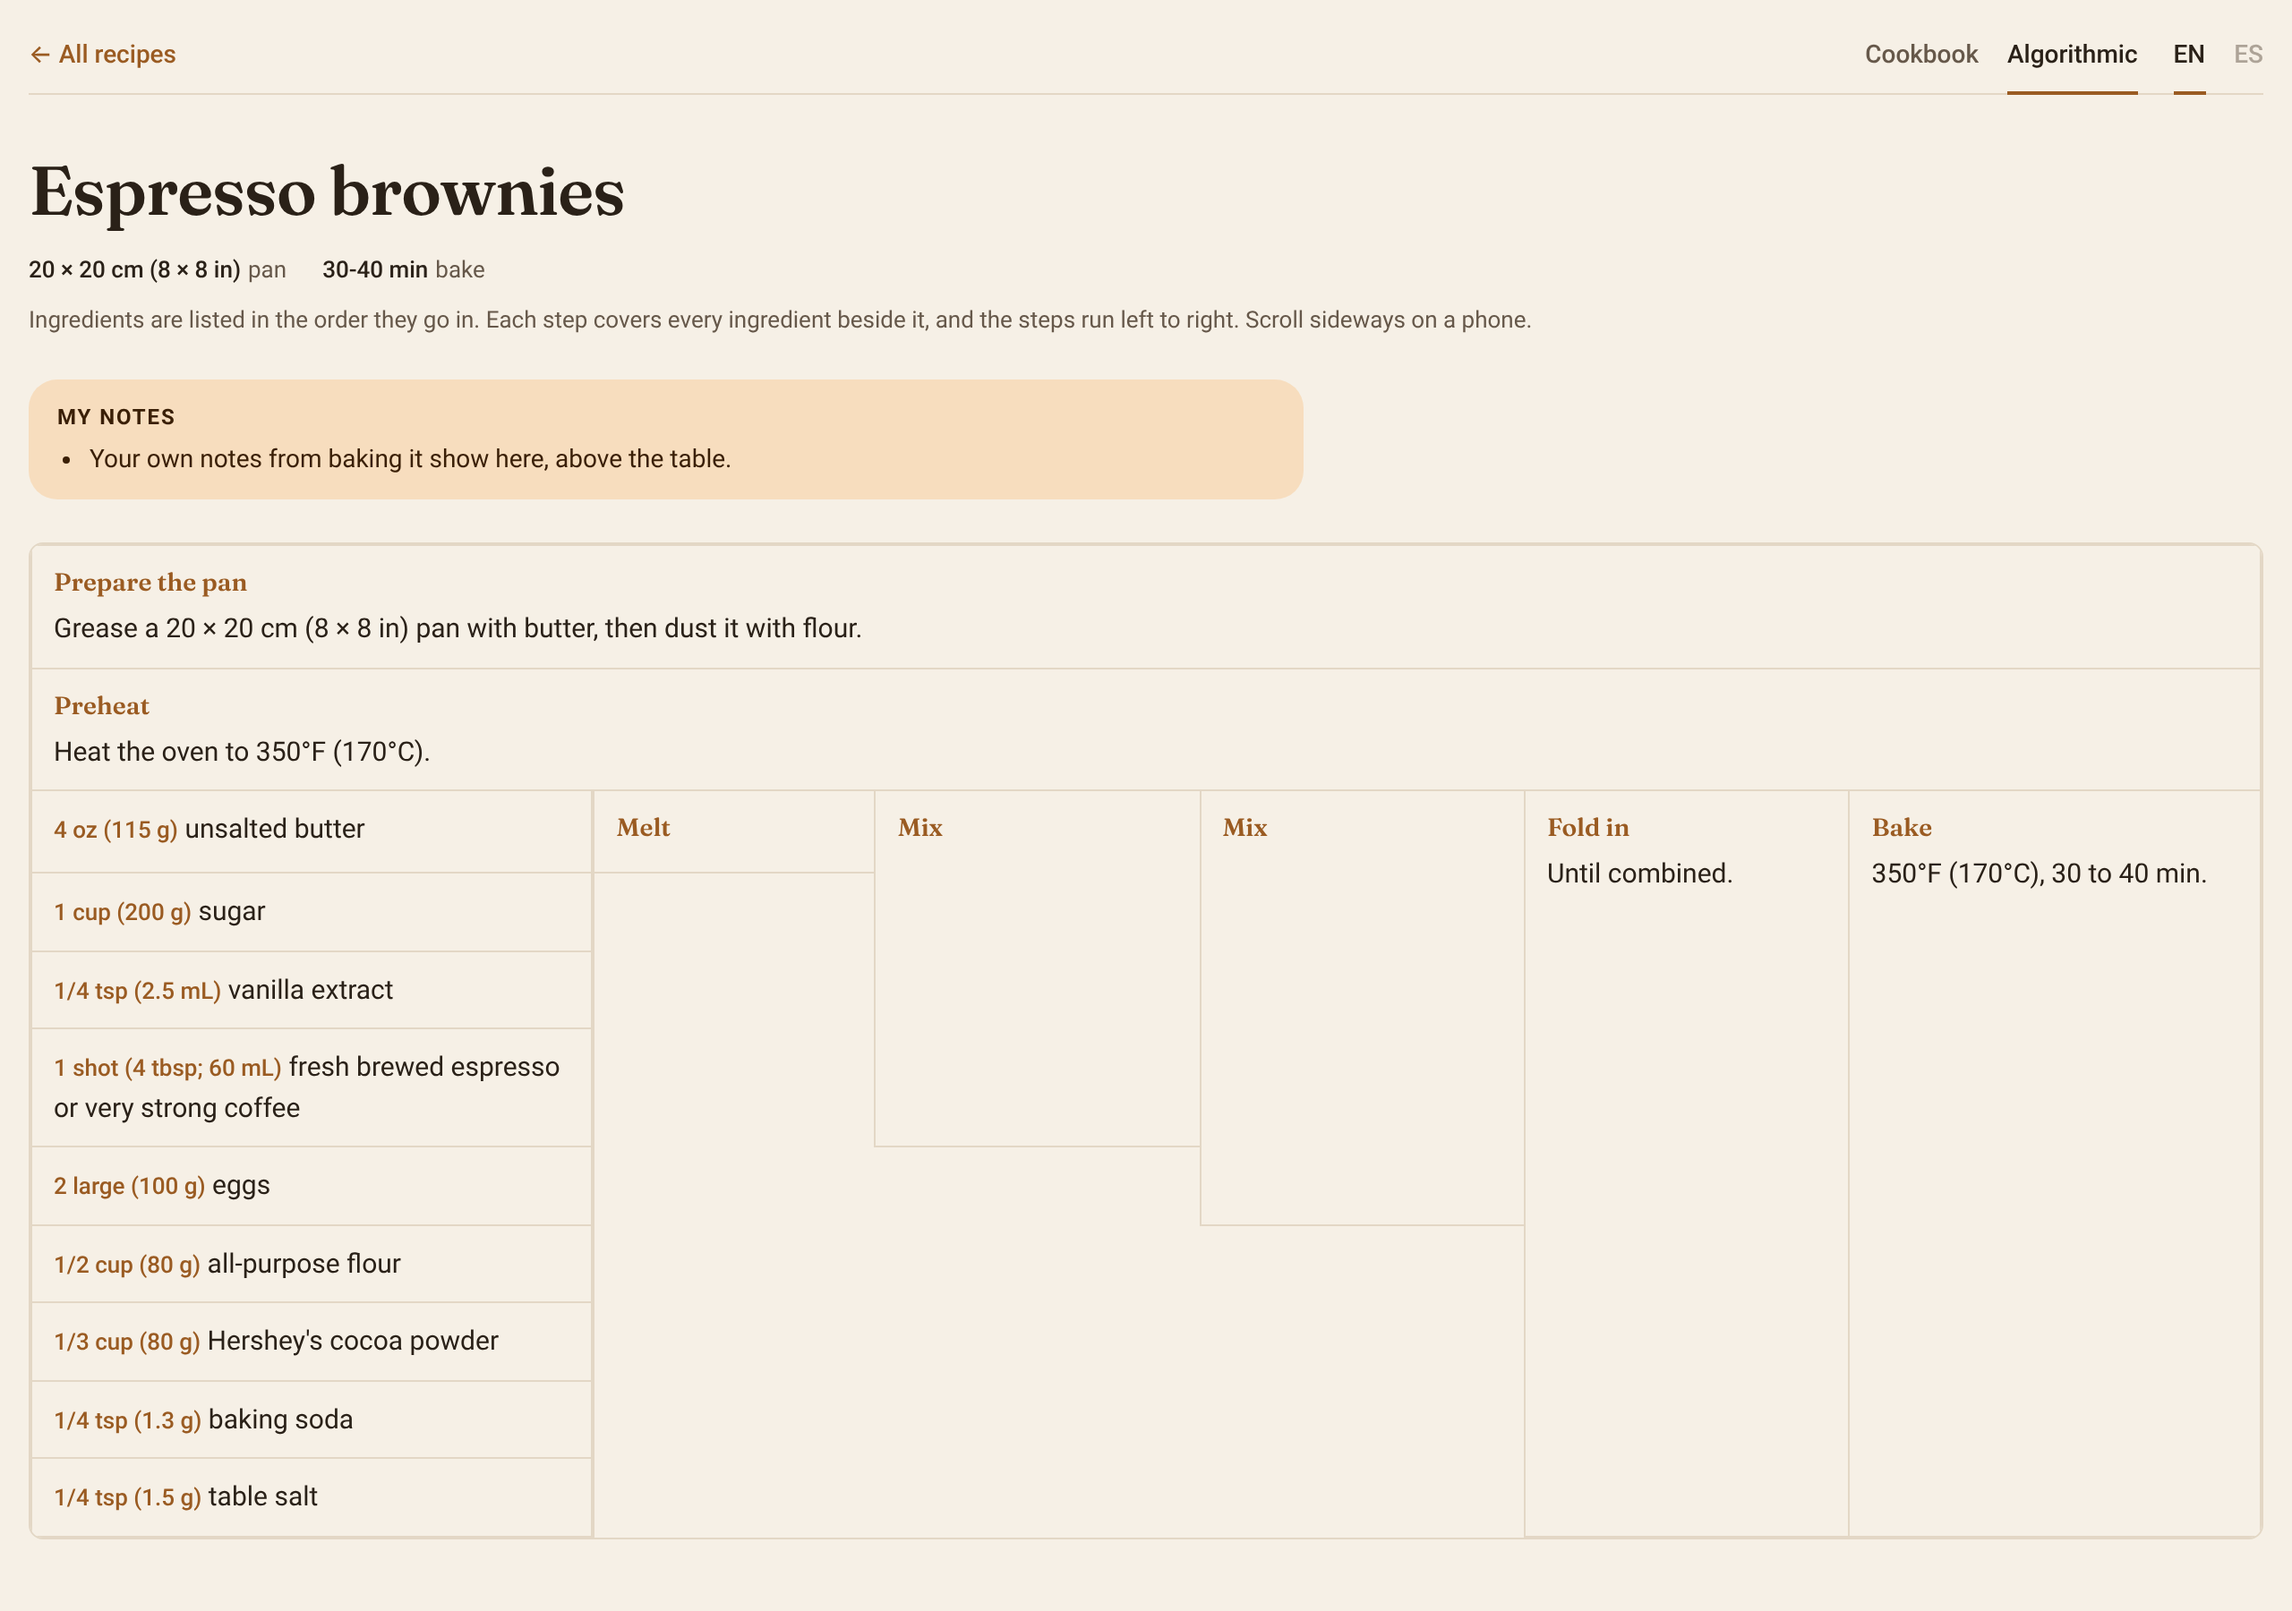
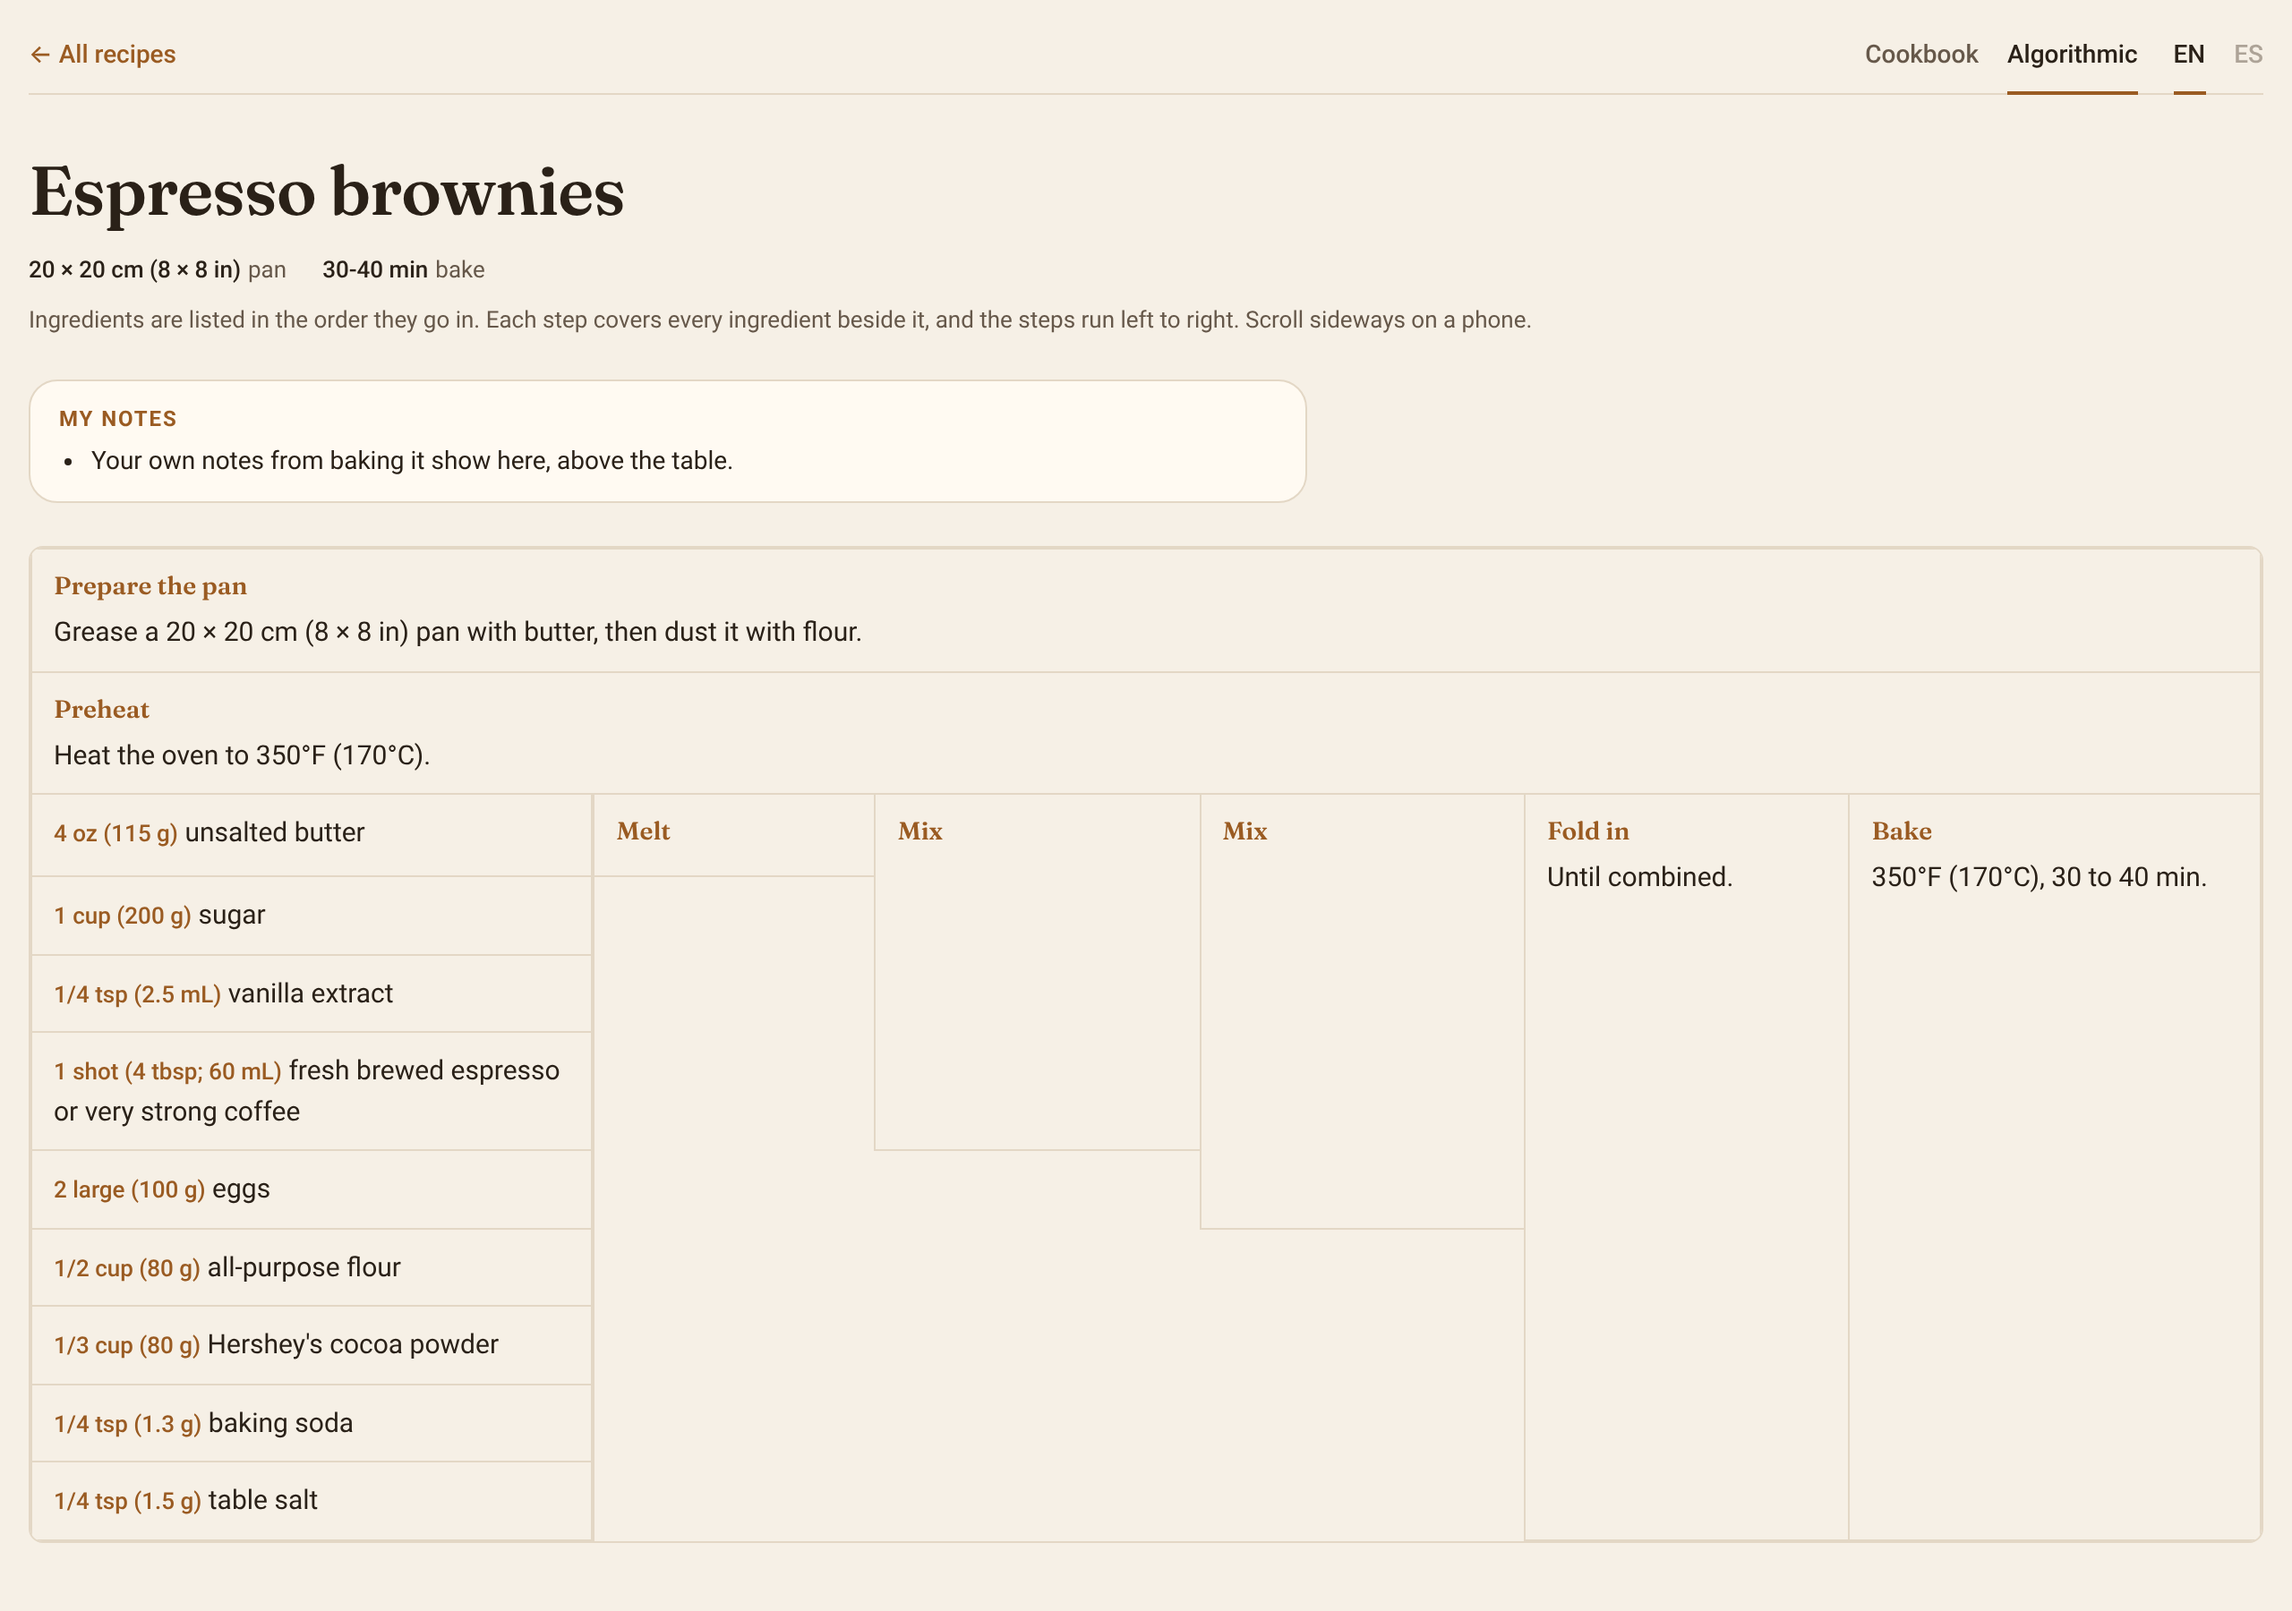
Paper: a smaller palette, oat with one cream on it (0.8.2)
Drop --card-2 and --accent-soft/--on-accent-soft. Everything that sits on
the page (photo placeholders, My notes, search tags, the skills box) takes
the one cream (--card); a chip that's on is filled in the accent; boxes
are edged with the hairline. Eight colours per theme instead of eleven.

Claude-Session: https://claude.ai/code/session_01CNA9gCBeYptk53y1t7E6Wj

diff --git a/site-template/assets/site.css b/site-template/assets/site.css
@@ -3,7 +3,7 @@
 /* Algorithmic pages keep the algorithmic-recipe skill's own CSS (its grid widths are worked out per recipe)
    and take Paper's colours and fonts through its variable names. :root:root:root outranks the skill's
    dark-mode and print blocks, and each name points at a token that already changes with the theme. */
-:root:root:root{--bg:var(--paper);--tint:var(--card-2);--accent-bg:var(--accent-soft);
+:root:root:root{--bg:var(--paper);--tint:var(--card);--accent-bg:var(--card);
   --display:var(--font-display);--body:var(--font-body);--mono:var(--font-body)}
 .layout-algorithmic{--bar-width:1480px}
 .layout-algorithmic .wrap{border-radius:var(--radius-s)}
@@ -25,14 +25,14 @@
 
 /* Pagefind search box, in Paper's colours */
 #search{--pagefind-ui-scale:.85;--pagefind-ui-primary:var(--accent);--pagefind-ui-text:var(--ink);--pagefind-ui-background:var(--card);
-  --pagefind-ui-border:var(--outline);--pagefind-ui-border-width:1px;--pagefind-ui-tag:var(--card-2);--pagefind-ui-font:var(--font-body);--pagefind-ui-border-radius:12px}
+  --pagefind-ui-border:var(--outline);--pagefind-ui-border-width:1px;--pagefind-ui-tag:var(--card);--pagefind-ui-font:var(--font-body);--pagefind-ui-border-radius:12px}
 #search .pagefind-ui__search-input::placeholder{color:var(--muted);opacity:1}
 #search .pagefind-ui__result-title{font-family:var(--font-display);font-weight:500}
 
 /* homepage link to the rules page */
 .index .rules-link{margin:calc(-1 * var(--space-3)) 0 var(--space-5);font-size:var(--text-l)}
 
-.index .skills-note{margin:var(--space-6) 0 var(--space-4);padding:var(--space-4);background:var(--card);border:1px solid var(--outline);border-radius:var(--radius-m);max-width:var(--measure)}
+.index .skills-note{margin:var(--space-6) 0 var(--space-4);padding:var(--space-4);background:var(--card);border:1px solid var(--rule);border-radius:var(--radius-m);max-width:var(--measure)}
 .index .skills-note h2{font-family:var(--font-display);font-size:var(--title-s);margin:0 0 var(--space-2)}
 .index .skills-note p{margin:0 0 var(--space-2);color:var(--muted)}
 .index .skills-note p:last-child{margin:0;font-weight:500}
@@ -58,8 +58,8 @@
 .rule li{margin:var(--space-1) 0}
 
 /* Your own notes on a recipe (recipe.json "notes"), above the table in both layouts */
-.my-notes{background:var(--accent-soft);color:var(--on-accent-soft);border-radius:var(--radius-m);padding:var(--space-3) var(--space-4);margin:var(--space-5) 0;max-width:var(--measure)}
-.paper .my-notes h2{font-family:var(--font-body);font-size:var(--text-xs);font-weight:700;text-transform:uppercase;letter-spacing:.08em;margin:0 0 var(--space-1);color:inherit;padding:0;border:0}
+.my-notes{background:var(--card);border:1px solid var(--rule);border-radius:var(--radius-m);padding:var(--space-3) var(--space-4);margin:var(--space-5) 0;max-width:var(--measure)}
+.paper .my-notes h2{font-family:var(--font-body);font-size:var(--text-xs);font-weight:700;text-transform:uppercase;letter-spacing:.08em;margin:0 0 var(--space-1);color:var(--accent);padding:0;border:0}
 .my-notes ul{margin:0;padding-left:18px}
 .my-notes li+li{margin-top:var(--space-1)}
 .layout-algorithmic .my-notes{max-width:680px;font-size:14px}

diff --git a/site-template/design/tokens.css b/site-template/design/tokens.css
@@ -1,24 +1,23 @@
 /* Paper: design tokens.
-   Pillbox's "Calm & crafted" layout (warm paper, slightly whiter cards) in a caramel palette for baking:
-   oat paper, a toffee brown accent and a toasted brown dark mode, Fraunces for titles and Roboto for text.
+   Pillbox's "Calm & crafted" layout in a small caramel palette for baking: oat paper, one cream for
+   everything that sits on it, two text tones, two line tones and one toffee brown accent, with a toasted
+   brown dark mode. Fraunces for titles and Roboto for text.
+   Keep it small: a new need takes one of these colours rather than a new one.
    Self-contained: copy this file (and components.css if you want the components) into any project.
    Every colour is defined on bare :root first; the two dark blocks only redefine them; print is always light. */
 
 :root{
-  /* surfaces */
+  /* surfaces: the page, and one cream for anything on it (boxes, notes, search, photo placeholders) */
   --paper:#F6F0E6;        /* page: oat */
-  --card:#FFFAF2;         /* a surface slightly whiter than the page */
-  --card-2:#EEE4D4;       /* a quieter surface, for filled chips and table bands */
+  --card:#FFFAF2;         /* cream, slightly whiter than the page */
   /* text and lines */
   --ink:#2A2118;
   --muted:#66584A;
   --outline:#8F8070;      /* borders of controls */
   --rule:#E3D7C5;         /* hairlines */
-  /* the accent: caramel */
+  /* the accent: caramel, for text, lines and the one filled control (a chip that's on) */
   --accent:#9A5B22;
   --on-accent:#FFFFFF;
-  --accent-soft:#F7DDBE;
-  --on-accent-soft:#3A1F06;
 
   /* type */
   --font-display:"Fraunces",Georgia,"Times New Roman",serif;
@@ -33,17 +32,17 @@
   --page-width:960px;
 }
 @media (prefers-color-scheme: dark){:root:not([data-theme="light"]){
-  --paper:#2B241D; --card:#3A3129; --card-2:#332B23;
+  --paper:#2B241D; --card:#3A3129;
   --ink:#F1E8DC; --muted:#CDBFAE; --outline:#9C8E7D; --rule:#4D4236;
-  --accent:#E9B27A; --on-accent:#4A2805; --accent-soft:#6B4320; --on-accent-soft:#FBE3C6;
+  --accent:#E9B27A; --on-accent:#4A2805;
   color-scheme:dark}}
 :root[data-theme="dark"]{
-  --paper:#2B241D; --card:#3A3129; --card-2:#332B23;
+  --paper:#2B241D; --card:#3A3129;
   --ink:#F1E8DC; --muted:#CDBFAE; --outline:#9C8E7D; --rule:#4D4236;
-  --accent:#E9B27A; --on-accent:#4A2805; --accent-soft:#6B4320; --on-accent-soft:#FBE3C6;
+  --accent:#E9B27A; --on-accent:#4A2805;
   color-scheme:dark}
 @media print{:root,:root:not([data-theme="light"]),:root[data-theme="dark"]{
-  --paper:#FFFFFF; --card:#FFFFFF; --card-2:#F4EEE4;
+  --paper:#FFFFFF; --card:#FFFFFF;
   --ink:#2A2118; --muted:#66584A; --outline:#8F8070; --rule:#D9CCB9;
-  --accent:#9A5B22; --on-accent:#FFFFFF; --accent-soft:#F7DDBE; --on-accent-soft:#3A1F06;
+  --accent:#9A5B22; --on-accent:#FFFFFF;
   color-scheme:light}}

diff --git a/site-template/design/components.css b/site-template/design/components.css
@@ -29,20 +29,20 @@ span.bar-back::before{content:none}
 
 /* ---------- small pieces ---------- */
 .eyebrow{margin:0 0 var(--space-2);font-size:var(--text-s);font-weight:500;color:var(--accent)}
-.photo{display:block;width:100%;max-width:100%;aspect-ratio:4/3;object-fit:cover;border-radius:var(--radius-m);background:var(--card-2)}
+.photo{display:block;width:100%;max-width:100%;aspect-ratio:4/3;object-fit:cover;border-radius:var(--radius-m);background:var(--card)}
 
 /* chips: filters you switch on and off (aria-pressed) */
 .chips{display:flex;flex-wrap:wrap;gap:var(--space-2)}
 .chips button{font:inherit;font-size:14px;font-weight:500;color:var(--ink);background:transparent;border:1px solid var(--outline);
   border-radius:var(--radius-s);min-height:36px;padding:4px 14px;cursor:pointer;display:inline-flex;align-items:center;gap:6px}
-.chips button[aria-pressed="true"]{background:var(--accent-soft);color:var(--on-accent-soft);border-color:transparent}
+.chips button[aria-pressed="true"]{background:var(--accent);color:var(--on-accent);border-color:var(--accent)}
 .chips button[aria-pressed="true"]::before{content:"";width:10px;height:6px;border:solid currentColor;border-width:0 0 2px 2px;transform:translateY(-2px) rotate(-45deg)}
 
 /* cards: a grid of things with a photo, on the paper rather than in boxes */
 .cards{list-style:none;margin:0;padding:0;display:grid;grid-template-columns:repeat(auto-fill,minmax(260px,1fr));gap:var(--space-6) var(--space-5)}
 .cards>li[hidden]{display:none}
 .cards a{display:flex;flex-direction:column;gap:6px;height:100%;color:inherit;text-decoration:none}
-.cards img,.cards .nophoto{width:100%;max-width:100%;aspect-ratio:4/3;object-fit:cover;display:block;border-radius:var(--radius-m);background:var(--card-2);margin-bottom:6px}
+.cards img,.cards .nophoto{width:100%;max-width:100%;aspect-ratio:4/3;object-fit:cover;display:block;border-radius:var(--radius-m);background:var(--card);margin-bottom:6px}
 .cards .nophoto{display:grid;place-items:center;font-family:var(--font-display);font-size:72px;font-weight:500;color:var(--accent)}
 .cards .title{font-family:var(--font-display);font-weight:500;font-size:1.25rem;line-height:1.2}
 .cards a:hover .title{color:var(--accent)}

diff --git a/site-template/design/README.md b/site-template/design/README.md
@@ -1,9 +1,9 @@
 # Paper
 
 The look of the recipe site, kept apart from the site so another project can use it. It's
-[Pillbox](https://github.com/CrisBarreiro/Pillbox)'s "Calm & crafted" style moved to the web, in a caramel
-palette for baking: oat paper, a toffee brown accent, a toasted brown dark mode, Fraunces for titles and Roboto
-for text.
+[Pillbox](https://github.com/CrisBarreiro/Pillbox)'s "Calm & crafted" style moved to the web, in a small caramel
+palette for baking: oat paper with cream on it, a toffee brown accent, a toasted brown dark mode, Fraunces for
+titles and Roboto for text.
 
 | File | What it is |
 | --- | --- |
@@ -30,19 +30,19 @@ Print is always light. To use only the colours, take `tokens.css` alone.
 
 ## Tokens
 
+Eight colours in each theme: the oat page, one cream for anything that sits on it, two text tones, two line
+tones and one caramel accent. A new need takes one of these rather than a new tone.
+
 | Token | Light | Dark | Use |
 | --- | --- | --- | --- |
 | `--paper` | `#F6F0E6` | `#2B241D` | Page |
-| `--card` | `#FFFAF2` | `#3A3129` | A surface a step off the page (search box, algorithmic cells) |
-| `--card-2` | `#EEE4D4` | `#332B23` | A quieter fill (photo placeholders, sticky column) |
+| `--card` | `#FFFAF2` | `#3A3129` | Cream: everything that sits on the page (search box, boxes, notes, photo placeholders) |
 | `--ink` | `#2A2118` | `#F1E8DC` | Text |
 | `--muted` | `#66584A` | `#CDBFAE` | Secondary text, labels |
-| `--outline` | `#8F8070` | `#9C8E7D` | Borders of controls |
-| `--rule` | `#E3D7C5` | `#4D4236` | Hairlines |
-| `--accent` | `#9A5B22` | `#E9B27A` | Caramel: links, current tab, step numbers, eyebrows |
+| `--outline` | `#8F8070` | `#9C8E7D` | Borders of controls (chips, search box) |
+| `--rule` | `#E3D7C5` | `#4D4236` | Hairlines and the edges of boxes |
+| `--accent` | `#9A5B22` | `#E9B27A` | Caramel: links, current tab, step numbers, eyebrows, a chip that's on |
 | `--on-accent` | `#FFFFFF` | `#4A2805` | Text on a filled accent |
-| `--accent-soft` | `#F7DDBE` | `#6B4320` | A selected chip |
-| `--on-accent-soft` | `#3A1F06` | `#FBE3C6` | Text on `--accent-soft` |
 
 Type: `--font-display` (Fraunces, for titles and the facts strip), `--font-body` (Roboto), sizes `--text-xs`
 12px to `--text-l` 16px and `--title-s`, `--title-m`, `--title-l`. Space: `--space-1` to `--space-6`
@@ -87,7 +87,7 @@ A back link and tab groups on a hairline. The current tab is underlined in the a
 
 ### Chips
 
-Filters you switch on and off; the one that's on is filled and ticked.
+Filters you switch on and off; the one that's on is filled in caramel and ticked.
 
 ```html
 <div class="chips" role="group"><button type="button" aria-pressed="true">All</button><button type="button" aria-pressed="false">Baking</button></div>
